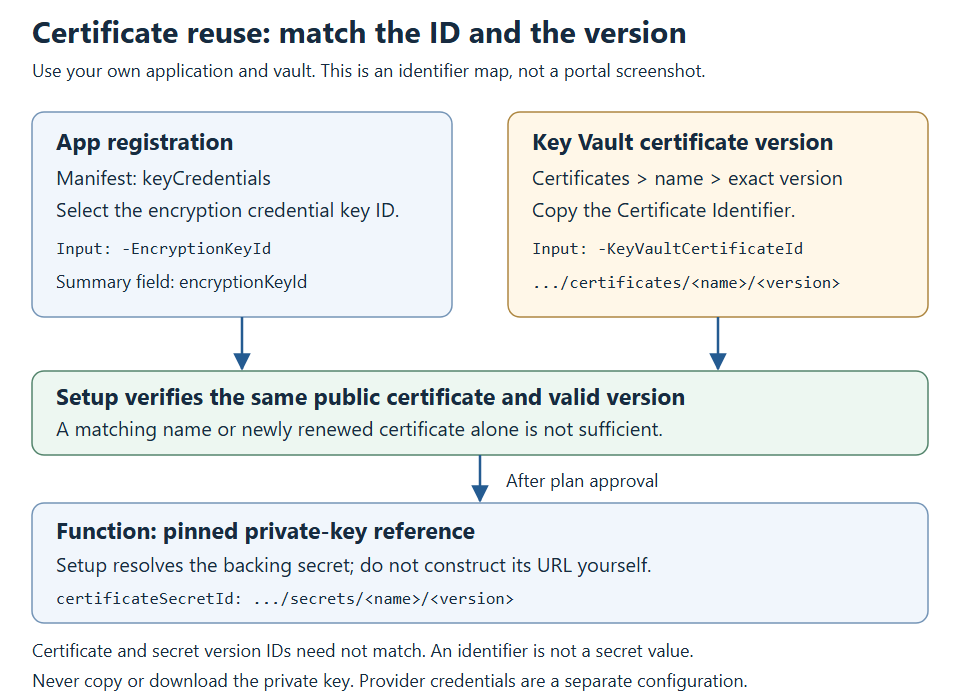
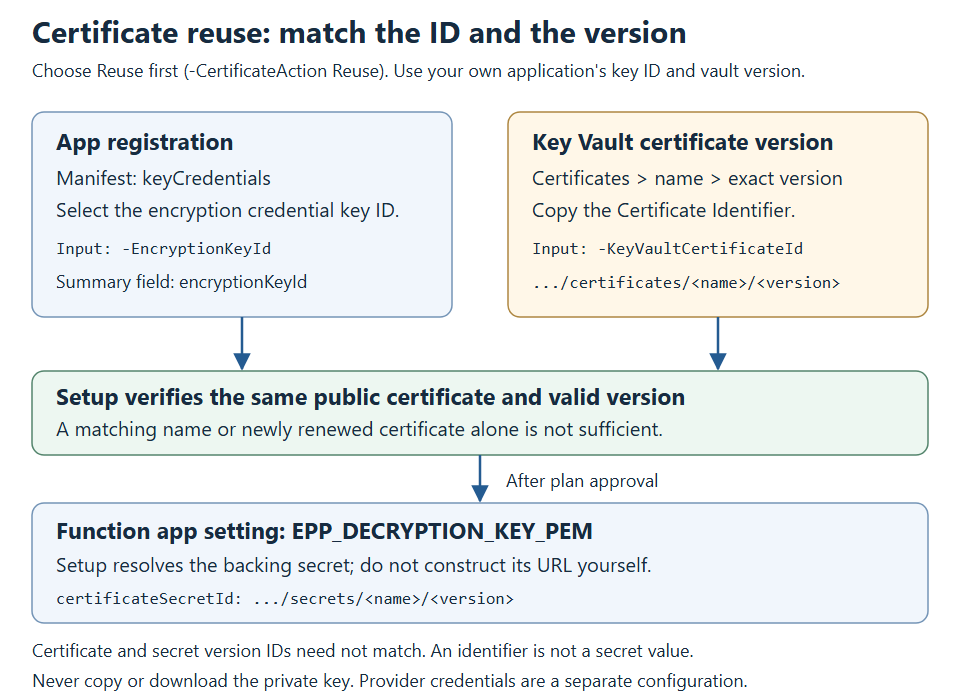
docs: preserve architecture PNGs and prune duplicate visuals
Restore original architecture images unchanged, remove redundant roadmap/monitoring/architecture redraws, and retain the distinct UML and certificate maps. Clarify schematic captions, error-path scope, and certificate reuse inputs and setting.

Copilot-Session: eb941502-3065-4ec4-abf8-b5dac1f42ab2

Changed region(s): [[0.0312, 0.09, 0.8438, 0.12], [0.1562, 0.75, 0.625, 0.78]]

diff --git a/docs/FRONTDOOR.md b/docs/FRONTDOOR.md
@@ -44,21 +44,23 @@ approved by the deployment owners; the observed results below do not establish t
 
 ## Architecture: one URL, multiple origins
 
-![Azure Front Door routes Microsoft Entra ID requests to two regional Functions with equivalent Easy Auth, matching decryption keys and local dependencies; separate readiness probes do not call the shared phone provider.](images/multi-region-architecture.png)
+![Multi-region component overview showing Microsoft Entra ID, Azure Front Door, two regional Function Apps with Key Vault and Application Insights, and a shared phone provider](images/multi-region-architecture.png)
 
-*Original design illustration; [scalable diagram and editable source](images/multi-region-architecture.svg).
-Solid arrows show request routing; dashed arrows show the separate readiness probes.*
+*Component overview, not a deployment template or delivery timeline. Match private-key material,
+not vault version IDs or resource names. The green dashed arrows are responses, not health probes.*
 
-The diagram shows the design, not a deployed environment. Regions A and B are placeholders.
-Custom domains and Premium/WAF are optional, not shown, and weren't part of the Standard-tier test.
+The diagram shows the design, not the exact test deployment. Its region names are examples.
+Custom domains and Premium/WAF are optional and weren't part of the Standard-tier test.
 Give each Function App, storage account, and Key Vault a globally unique name. Each region also has
 its own identity IDs and vault references. Keep the **provider and authentication configuration
 consistent and use the same RSA key**, rather than copying every setting literally.
-Only live requests reach the provider; evaluation returns the nonce without contacting it.
-API-key integrations read regional vault secrets; OAuth uses each region's outbound managed
-identity. Match the key material across regions, not the vault URLs, identity IDs, or version IDs.
+The SMS/voice arrows show live delivery. Evaluation returns the nonce without contacting the provider.
+The diagram's provider-secret arrows apply to API-key integrations; OAuth uses each region's
+outbound managed identity. Match the key material across regions, not the vault URLs or version IDs.
 For response timing and separate recipient delivery, see the
-[single-request illustration](../TECHNICAL.md#single-region-architecture).
+[request sequence](BRING-YOUR-OWN-PROVIDER.md#end-to-end-endpoint-request).
+Health probes require the [separate readiness handler](#3-provide-a-non-delivering-readiness-endpoint),
+which is not shown in this overview or included in the release packages.
 
 | Component | Purpose |
 |---|---|

diff --git a/TECHNICAL.md b/TECHNICAL.md
@@ -13,22 +13,24 @@ and managed-identity access to credentials.
 
 ## Single-region architecture
 
-![Microsoft Entra ID calls Easy Auth and the Function; evaluation skips the provider, while live requests wait for provider acceptance before returning the nonce. Recipient delivery is checked separately.](docs/images/single-region-architecture.png)
+![Single-region component overview showing Microsoft Entra ID, Easy Auth, the Function and adapter, Key Vault, Application Insights, and the phone provider](docs/images/single-region-architecture.png)
 
-*Original illustration; [scalable diagram and editable source](docs/images/single-region-architecture.svg).
-Follow the left branch for evaluation and the right branch for a live send.*
+*Component overview, not a delivery timeline. The numbered delivery arrow does not mean
+the Function waits for handset receipt; see the [request sequence](docs/BRING-YOUR-OWN-PROVIDER.md#end-to-end-endpoint-request)
+for evaluation and live response ordering.*
 
 Microsoft Entra ID sends an authenticated, encrypted request. Easy Auth checks the caller,
 then the Function decrypts the request using its Key Vault-backed key. For a live request, the
 selected adapter submits the message and returns success after provider acceptance, not after
 confirmed recipient delivery. Application Insights collects the available request and log telemetry.
 
-The diagram is an overview, not a portal screenshot or a complete resource inventory. Select a
-region with capacity and quota for your hosting plan. Provider API keys come from Key Vault;
-OAuth integrations use managed-identity token exchange instead. Both are separate from the
-decryption key and the incoming caller token. Credential caching
+The diagram is an overview, not a portal screenshot. East US is illustrative; select a region
+with capacity and quota for your hosting plan. The provider-secret path applies to API-key
+integrations; OAuth integrations use managed-identity token exchange instead. Credential caching
 depends on the [selected cache settings](docs/CONTRACT.md#credential-caching-and-refresh), and
 [log formats vary by runtime](docs/MONITORING.md#runtime-specific-log-discovery).
+Telemetry comes from the Function host/worker; the schematic telemetry arrow does not mean
+Easy Auth rejections produce Function request logs.
 
 An authorized, valid encrypted **evaluation request (`mode: 2`)** returns the matching nonce
 without submitting a message to the provider. When caching is enabled, credential preparation

diff --git a/setup/docs/README.md b/setup/docs/README.md
@@ -295,8 +295,9 @@ certificates are not encryption candidates, and unsupported encryption credentia
 ![Certificate reuse identifier map: match the app encryption credential key ID to the exact Key Vault certificate version; setup resolves its backing secret for the Function without downloading the private key.](../../docs/images/onboarding/certificate-reuse.png)
 
 *Original identifier map; [open the scalable illustration](../../docs/images/onboarding/certificate-reuse.svg).
-For **Reuse**, supply the two top inputs. The Function's secret reference is an output,
-not a secret value to copy. Follow the selection and validity checks below.*
+**Reuse path only:** choose **Reuse** interactively or pass `-CertificateAction Reuse`. Select the app encryption key
+and provide its certificate version; unattended reuse requires both named ID parameters.
+The Function's secret reference is an output, not a secret value to copy. Follow the checks below.*
 
 | Existing encryption credentials | Choice | Result after successful deployment |
 |---|---|---|

diff --git a/docs/BRING-YOUR-OWN-PROVIDER.md b/docs/BRING-YOUR-OWN-PROVIDER.md
@@ -14,7 +14,9 @@ Deploying the endpoint alone does not enable tenant policy.
 ![UML sequence showing Microsoft Entra ID calling Easy Auth, the Function validating and decrypting, and alternative evaluation and live paths. Only live calls reach the provider; success returns through Easy Auth after evaluation or recognized acceptance.](images/request-sequence.png)
 
 *Original UML sequence; [open the scalable diagram](images/request-sequence.svg).
-Solid arrows are calls; dashed arrows are replies. The two branches are alternatives.
+Solid arrows are calls; dashed arrows are replies. The two successful branches are alternatives.
+Rejected callers, invalid payloads, and provider failures stop the success path; use the
+[error response reference](CONTRACT.md#epp-response-json) for those cases.
 This illustrates the [shared contract](CONTRACT.md#1-http-api), not a completed live test.*
 
 The success response acknowledges evaluation or provider acceptance, **not recipient delivery**.

diff --git a/docs/MONITORING.md b/docs/MONITORING.md
@@ -8,13 +8,6 @@ For **tenant authentication outcomes and potential abuse signals**, use the sepa
 sign-in alerts are not configured by endpoint setup; sign-in failures are not automatically
 provider failures or evidence of OTP delivery.
 
-![Three monitoring questions and their evidence: Microsoft Entra ID sign-in and audit logs for authentication, Application Insights for Function execution, and provider records plus recipient checks for delivery.](images/monitoring-evidence.png)
-
-*Original evidence map; [open the scalable illustration](images/monitoring-evidence.svg).
-Start with [identity logs](SIGN-IN-MONITORING.md#2-find-one-sign-in),
-[Function logs](#find-the-linked-resources-in-the-portal), or
-[provider and recipient checks](ONBOARDING.md#validate-the-deployed-endpoint), depending on the question.*
-
 For your first single-region deployment:
 
 1. [Find the monitoring resources and confirm data is arriving](#1-record-the-deployment-and-confirm-telemetry)

diff --git a/README.md b/README.md
@@ -7,11 +7,6 @@ You register an application, run a guided setup script, then connect and test yo
 An administrator activates the endpoint only after those checks pass. You do not need to clone
 this repository, build a package yourself, or follow all three language guides.
 
-![Five onboarding stages: get ready, register the app, run setup, connect and test, then activate and hand over.](docs/images/onboarding/onboarding-journey.png)
-
-*Original roadmap; [open the scalable illustration](docs/images/onboarding/onboarding-journey.svg).
-The numbered sections below explain each stage. Deployment alone does not activate policy.*
-
 The same Function endpoint supports both SMS and voice. Each request's `channel` selects its
 configured provider URL, and the SMS and voice URLs can differ. Validate every channel you intend
 to activate.

diff --git a/docs/ONBOARDING.md b/docs/ONBOARDING.md
@@ -124,7 +124,7 @@ a missing, empty, or invalid selected endpoint fails closed.
 
 There are **three separate trust paths**: Easy Auth admits the Microsoft caller; the Key Vault
 certificate decrypts its JWE; provider credentials authorize outbound delivery. The HTTPS
-certificate is separate again. Use the [request-path illustration](../TECHNICAL.md#single-region-architecture)
+certificate is separate again. Use the [request sequence](BRING-YOUR-OWN-PROVIDER.md#end-to-end-endpoint-request)
 to see where evaluation stops and live delivery continues. Fix the failing path rather than
 replacing unrelated IDs or keys.
 
